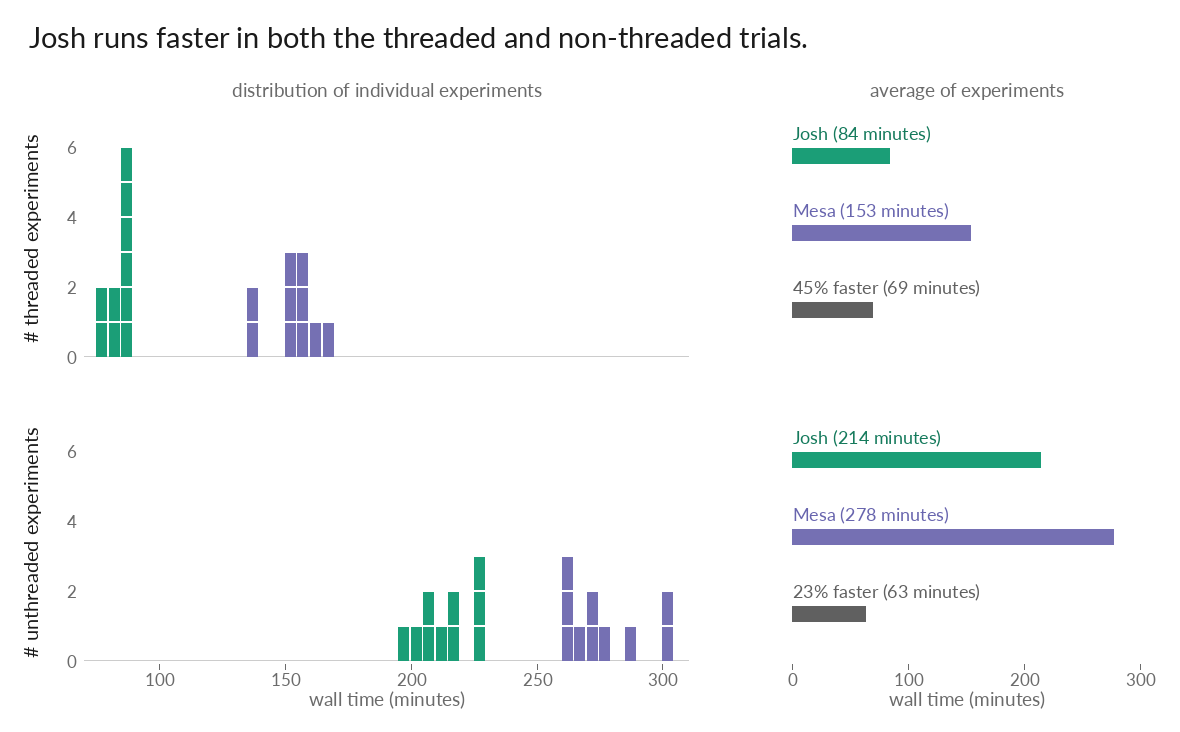
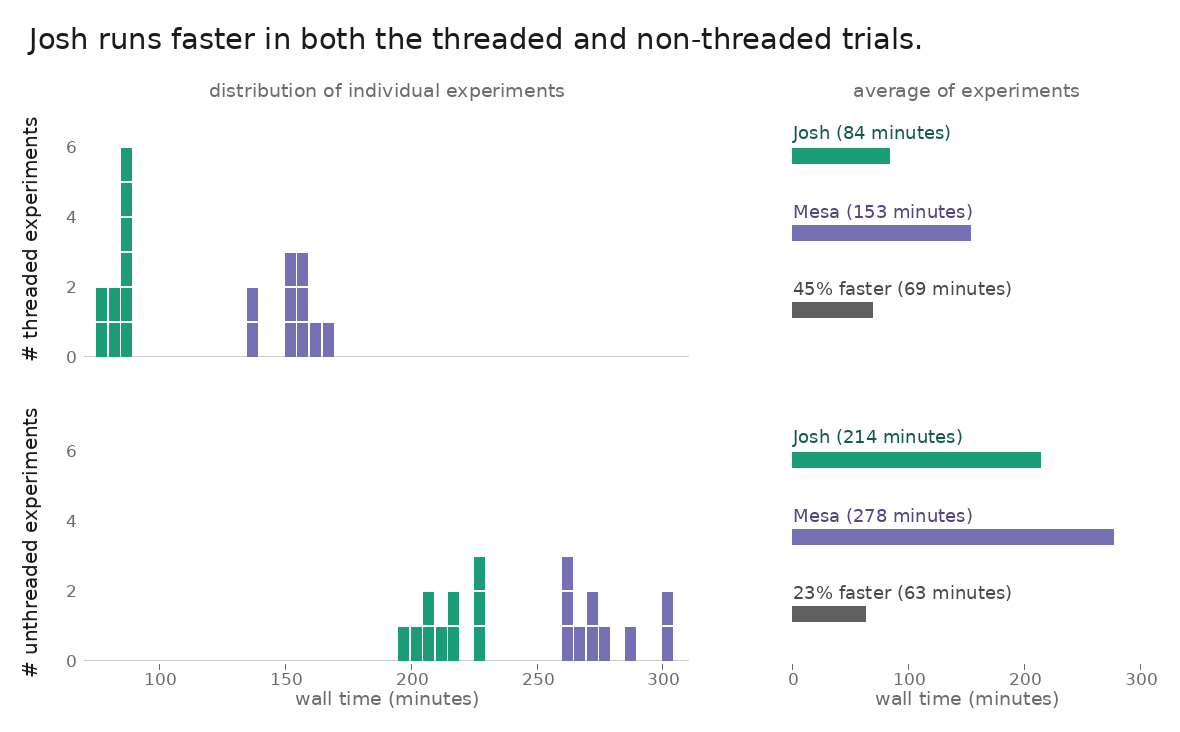
Darken figure legend text colors for readability
The Josh/Mesa/diff label colors were readable at full size but read as
too light once the figure is scaled down for publication. Darken all
three label colors (bar fills are unchanged) to comfortably clear WCAG
AAA contrast on white.

diff --git a/draw_hist.py b/draw_hist.py
@@ -33,9 +33,12 @@ WIDTH = 1180
 HEIGHT = 732
 
 # Bars use the brand colors; labels use darker shades for WCAG contrast on white.
-COLOR_JOSH = "#157A5C"
-COLOR_MESA = "#6865AE"
-COLOR_DIFF = "#606060"
+# These are deliberately darker than the fill colors below (~8:1+ contrast on
+# white) since even AA-passing shades can read as too light once the legend
+# text is shrunk down for print.
+COLOR_JOSH = "#105B45"
+COLOR_MESA = "#4B497D"
+COLOR_DIFF = "#484848"
 FILL_JOSH = "#1b9e77"  # solid: the distributions don't overlap in practice
 FILL_MESA = "#7570b3"
 FILL_DIFF = "#606060"
